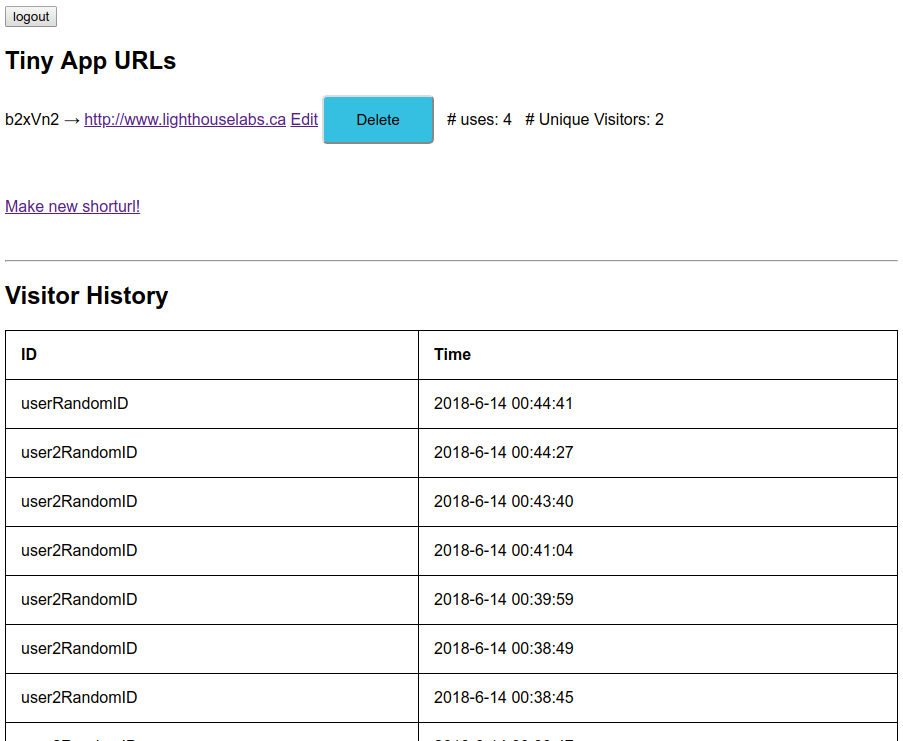
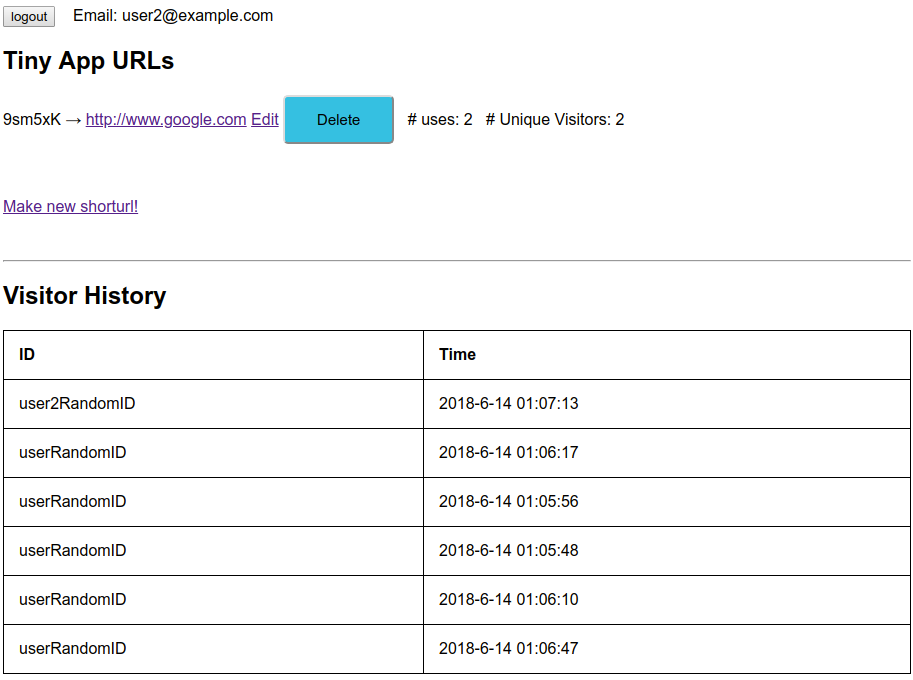
Added email in header

diff --git a/express_server.js b/express_server.js
@@ -203,6 +203,7 @@ app.get("/urls", (req, res) => {
   }
   let templateVars = {
     username: req.session.user_id, 
+    email: users[req.session.user_id]["email"],
     urlDatabase: makeuserurls(req.session.user_id),
     visitorinfo: req.session.visitinfo,
     urltimelog: urltimelog
